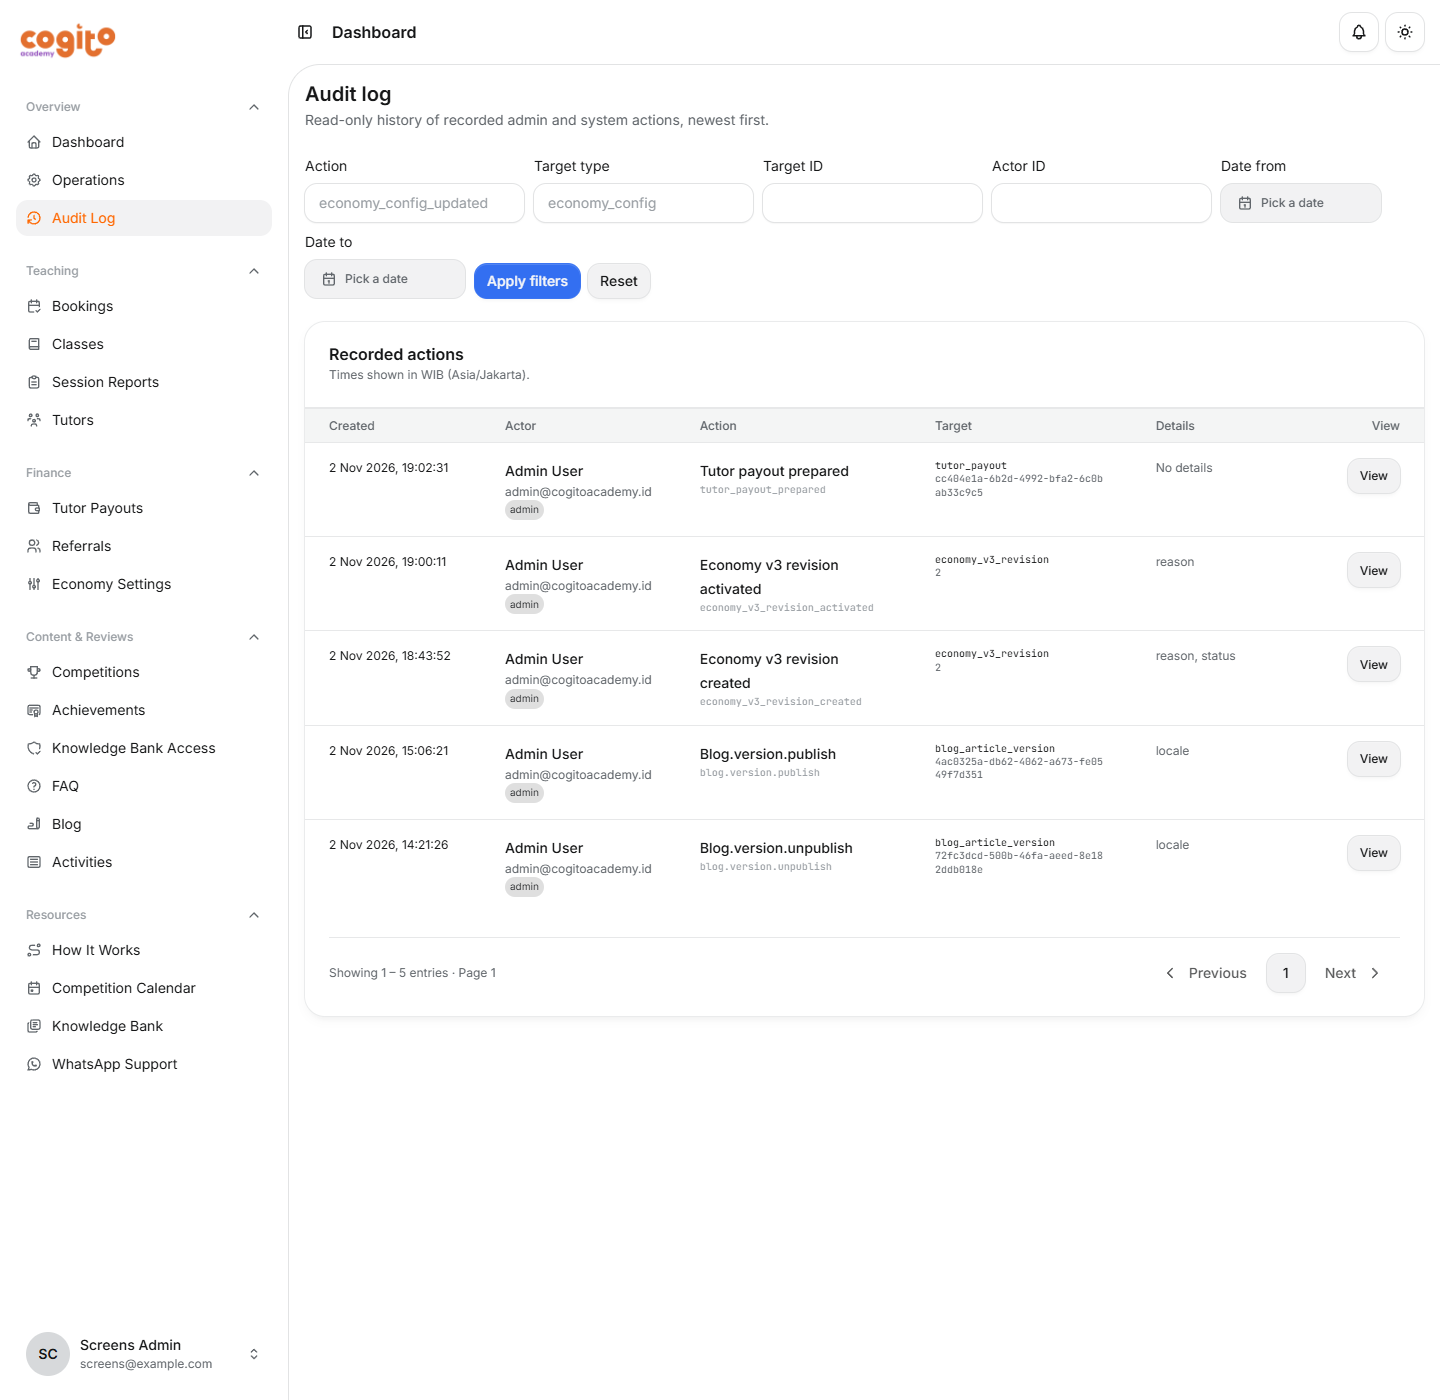
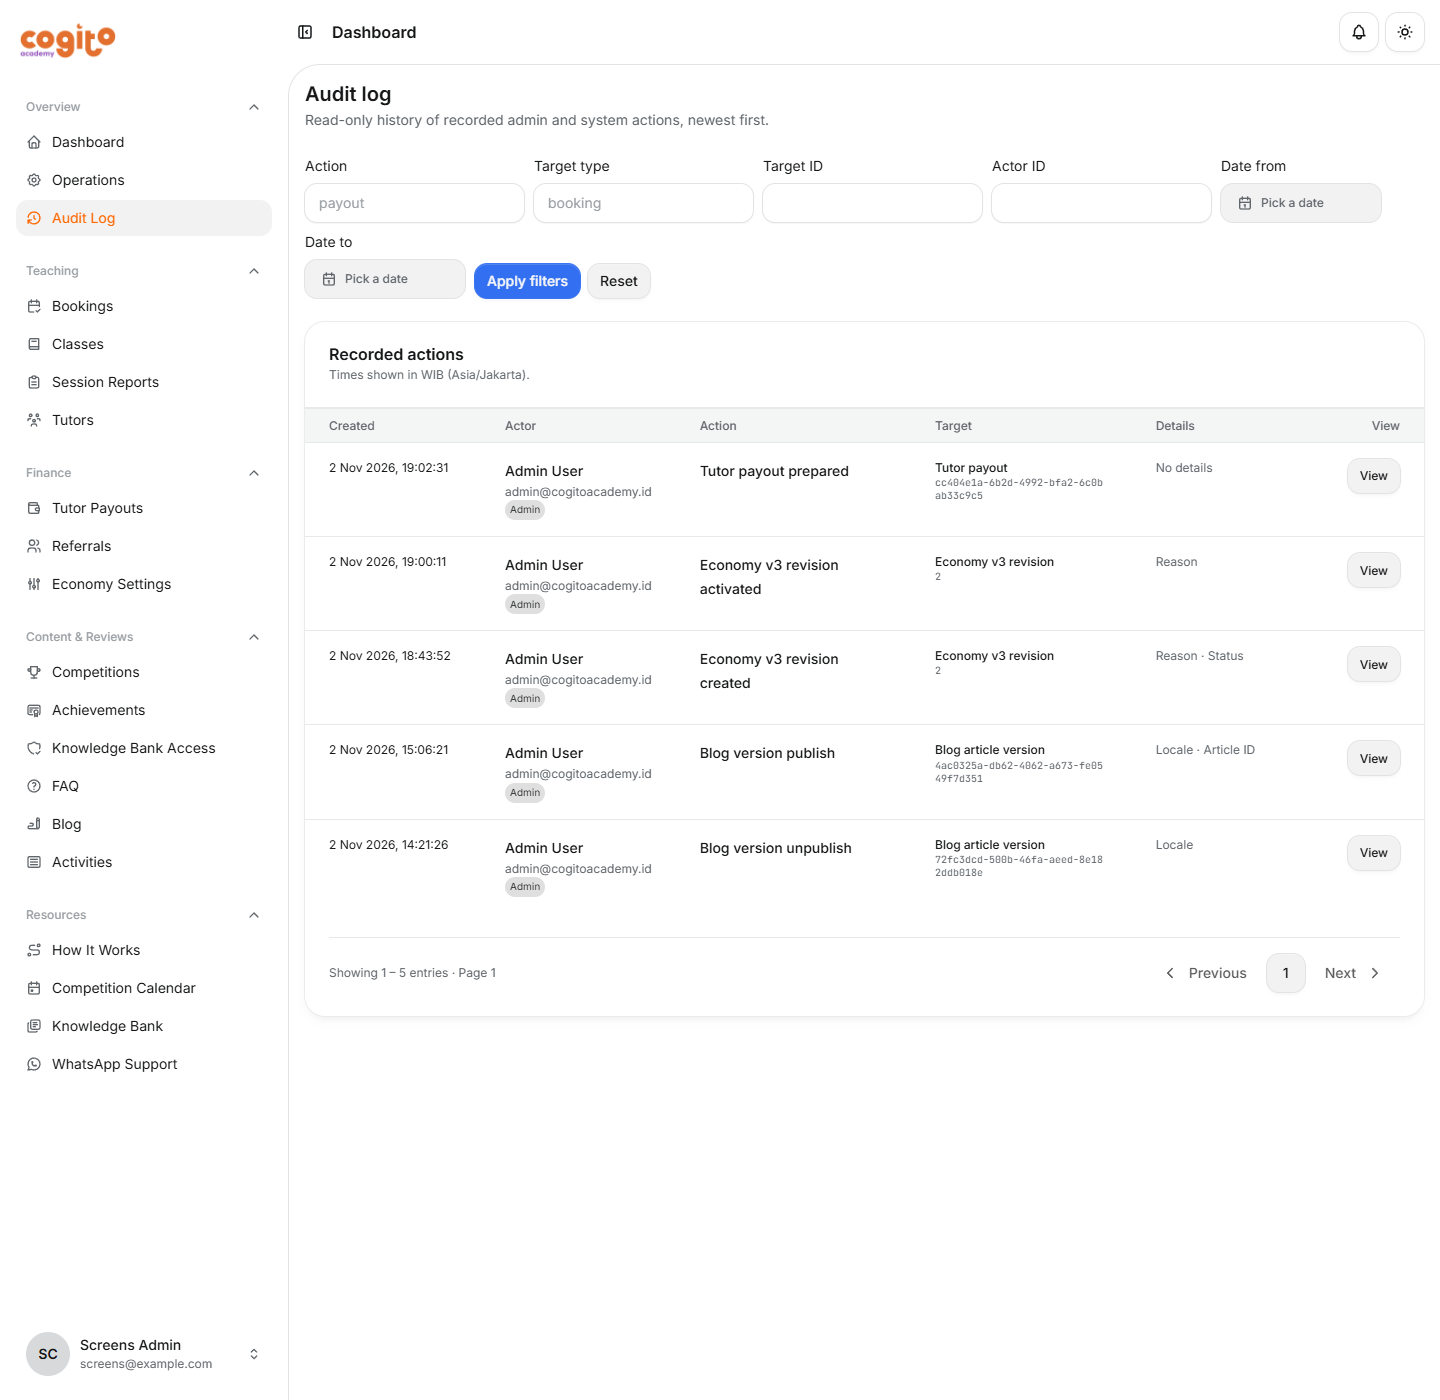
fix(admin): humanize audit labels and search action text

diff --git a/apps/web/src/components/admin/admin-audit-page.tsx b/apps/web/src/components/admin/admin-audit-page.tsx
@@ -87,7 +87,15 @@ function formatWibDateTime(value: string) {
 
 function humanize(value: string) {
   return value
-    .replaceAll("_", " ")
+    .replace(/[._]/g, " ")
+    .replace(/^./, (letter) => letter.toUpperCase());
+}
+
+function humanizeKey(value: string) {
+  return value
+    .replace(/([a-z0-9])([A-Z])/g, "$1 $2")
+    .replace(/[._]/g, " ")
+    .replace(/\bId\b/g, "ID")
     .replace(/^./, (letter) => letter.toUpperCase());
 }
 
@@ -95,8 +103,8 @@ function describeDetails(details: Record<string, unknown> | null) {
   if (!details) return "No details";
   const keys = Object.keys(details);
   if (keys.length === 0) return "No details";
-  const preview = keys.slice(0, 3).join(", ");
-  return keys.length > 3 ? `${preview}, +${keys.length - 3} more` : preview;
+  const preview = keys.slice(0, 3).map(humanizeKey).join(" · ");
+  return keys.length > 3 ? `${preview} · +${keys.length - 3} more` : preview;
 }
 
 function actorLabel(item: AuditLogItem) {
@@ -220,7 +228,7 @@ export function AdminAuditPage() {
                 action: event.target.value,
               }))
             }
-            placeholder="economy_config_updated"
+            placeholder="payout"
           />
         </Field>
         <Field className="w-full sm:w-auto sm:min-w-40">
@@ -236,7 +244,7 @@ export function AdminAuditPage() {
                 targetType: event.target.value,
               }))
             }
-            placeholder="economy_config"
+            placeholder="booking"
           />
         </Field>
         <Field className="w-full sm:w-auto sm:min-w-36">
@@ -389,20 +397,17 @@ export function AdminAuditPage() {
                             </Text>
                           ) : null}
                           <Badge variant="tertiary" size="sm" pill>
-                            {item.actorType}
+                            {humanize(item.actorType)}
                           </Badge>
                         </TableCell>
                         <TableCell className="align-top">
                           <Text className="font-medium">
                             {humanize(item.action)}
                           </Text>
-                          <Text className="font-mono text-xs text-dimmed">
-                            {item.action}
-                          </Text>
                         </TableCell>
                         <TableCell className="align-top">
-                          <Text className="font-mono text-xs">
-                            {item.targetType}
+                          <Text className="text-sm font-medium">
+                            {humanize(item.targetType)}
                           </Text>
                           {item.targetId ? (
                             <Text className="break-all font-mono text-xs text-muted">
@@ -421,7 +426,7 @@ export function AdminAuditPage() {
                           <Button
                             size="sm"
                             variant="secondary"
-                            aria-label={`View audit entry ${item.action}`}
+                            aria-label={`View audit entry ${humanize(item.action)}`}
                             onClick={(event) => {
                               event.stopPropagation();
                               setSelected(item);

diff --git a/packages/api/src/modules/admin-audit/admin-audit.repo.ts b/packages/api/src/modules/admin-audit/admin-audit.repo.ts
@@ -1,7 +1,15 @@
-import { and, desc, eq, gte, lt, lte, or } from "drizzle-orm";
+import { and, desc, eq, gte, ilike, lt, lte, or } from "drizzle-orm";
 import { auditLog, user } from "@cogito-app/db/schema";
 
 import type { DbOrTx } from "../../lib/tx";
+
+function escapeLikePattern(value: string): string {
+  return value.replace(/[\\%_]/g, "\\$&");
+}
+
+function normalizeSearch(value: string): string {
+  return value.trim().replace(/\s+/g, "_");
+}
 
 export type AuditLogCursor = {
   createdAt: Date;
@@ -55,9 +63,20 @@ export async function listPage(
 ): Promise<AuditLogListRow[]> {
   const conditions = [];
 
-  if (query.action) conditions.push(eq(auditLog.action, query.action));
+  if (query.action)
+    conditions.push(
+      ilike(
+        auditLog.action,
+        `%${escapeLikePattern(normalizeSearch(query.action))}%`,
+      ),
+    );
   if (query.targetType)
-    conditions.push(eq(auditLog.targetType, query.targetType));
+    conditions.push(
+      ilike(
+        auditLog.targetType,
+        `%${escapeLikePattern(normalizeSearch(query.targetType))}%`,
+      ),
+    );
   if (query.targetId) conditions.push(eq(auditLog.targetId, query.targetId));
   if (query.actorId) conditions.push(eq(auditLog.actorId, query.actorId));
   if (query.dateFrom) conditions.push(gte(auditLog.createdAt, query.dateFrom));

diff --git a/packages/api/src/tests/unit/admin-audit.repo.test.ts b/packages/api/src/tests/unit/admin-audit.repo.test.ts
@@ -88,8 +88,8 @@ describe("admin audit repository", () => {
     );
     expect(sql.params).toEqual(
       expect.arrayContaining([
-        "economy_config_updated",
-        "economy_config",
+        "%economy\\_config\\_updated%",
+        "%economy\\_config%",
         "config-1",
         "admin-1",
         dateFrom.toISOString(),

diff --git a/docs/API-REFERENCE.md b/docs/API-REFERENCE.md
@@ -1622,7 +1622,7 @@ the audit writer is unchanged.
 - **Input:** `{ limit?: 1..100 = 50, cursor?, action?, targetType?, targetId?, actorId?, dateFrom?, dateTo? }`; text filters are trimmed and limited to 100 characters, and `dateFrom`/`dateTo` are ISO datetimes with an offset
 - **Output:** `{ items: Array<{ id, actorId, actorName, actorEmail, actorType, action, targetType, targetId, beforeState, afterState, details, createdAt }>, nextCursor: string | null }`
 - **Errors:** `INVALID_AUDIT_DATE_RANGE` (400) when `dateFrom` is after `dateTo`; `INVALID_AUDIT_CURSOR` (400) for a malformed cursor
-- **Description:** Lists audit entries newest first by `createdAt` then `id`. Actor name and email come from a left join, so both are `null` after the user account is deleted. `nextCursor` uses the form `"<createdAt ISO>~<id>"` and appears only when another page exists. The admin page is `/admin-audit`.
+- **Description:** Lists audit entries newest first by `createdAt` then `id`. `action` and `targetType` are case-insensitive partial matches with `%`, `_`, and `\` treated literally; `targetId` and `actorId` are exact matches. Actor name and email come from a left join, so both are `null` after the user account is deleted. `nextCursor` uses the form `"<createdAt ISO>~<id>"` and appears only when another page exists. The admin page is `/admin-audit`.
 
 ---
 
